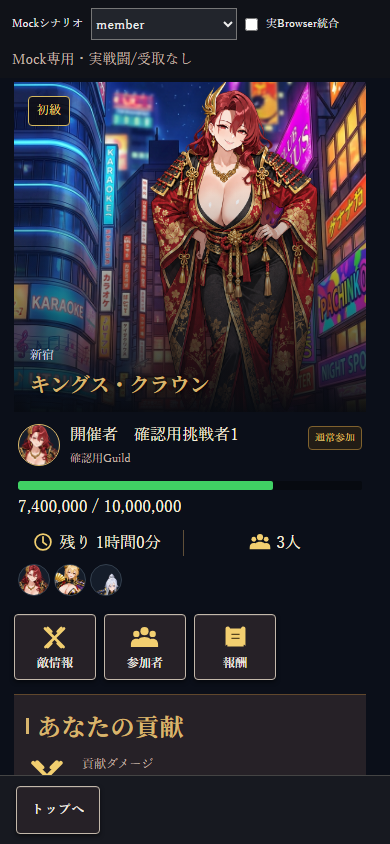
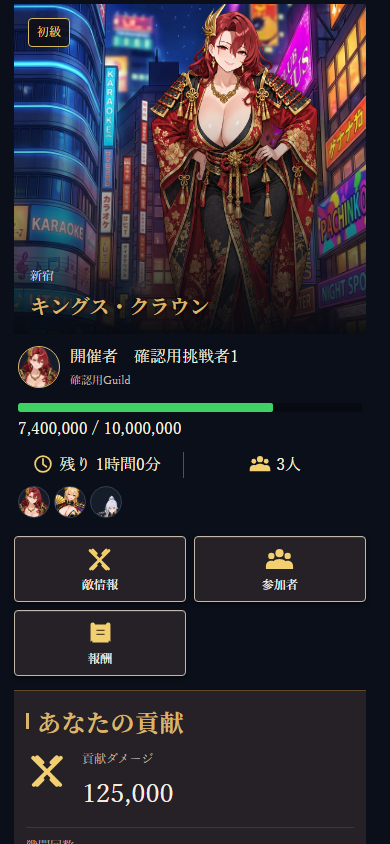
fix(game04): align raid UI with visual correction instructions

diff --git a/src/app/components/raid/RaidRoomDetail.css b/src/app/components/raid/RaidRoomDetail.css
@@ -56,4 +56,4 @@
 .raid-detail__role > span { display: block; margin-bottom: 2px; font-size: 9px; color: var(--ui-text-secondary); }
 
 /* Approved raid mock: live detail composition. */
-.raid-detail{padding:0 0 24px;color:#f8f0df}.raid-detail__hero{height:330px;border-radius:0;border:0}.raid-detail__enemy{width:92%;height:126%;right:-8%;top:-2%}.raid-detail__hero-caption{left:16px;bottom:14px}.raid-detail__hero-caption h2{color:#efd584;font:700 28px Georgia,serif}.raid-detail__difficulty{top:14px;left:14px;border-color:#d6b95f;color:#f4d977;background:rgba(15,14,20,.86)}.raid-detail__owner{display:flex;align-items:center;gap:10px;padding:10px 4px 7px;border-bottom:0}.raid-detail__owner .raid-detail__portrait{width:42px;height:42px;flex-basis:42px;border-color:#dfbb6b}.raid-detail__identity strong{font:16px Georgia,serif}.raid-detail__identity>span{font-size:11px}.raid-detail__role{border-color:#80622e;color:#e8cb78;background:#221d16}.raid-detail__battle{padding:6px 4px 10px}.raid-detail__hp-heading{display:none}.raid-detail__hp{height:9px;margin:0 0 4px;background:#15161b}.raid-detail__hp::-webkit-progress-value{background:#40d164}.raid-detail__hp-value{text-align:left;color:#f8f0df;font:16px Georgia,serif}.raid-detail__battle-facts{grid-template-columns:1fr 1fr;border:0;margin-top:10px}.raid-detail__battle-facts>div{display:flex;align-items:center;justify-content:center;gap:8px;border-right:1px solid #604f39}.raid-detail__battle-facts>div:last-child{border-right:0}.raid-detail__battle-facts strong{font:16px Georgia,serif}.raid-detail__battle-facts span{font-size:0}.raid-detail__battle-facts>div:first-child strong::before{content:'◷ ';color:#f2cf70}.raid-detail__battle-facts>div:last-child strong::before{content:'♟ ';color:#f2cf70}.raid-detail__entrances{gap:8px;margin-top:8px}.raid-detail__entrances .outlaw-button{min-height:62px;border-color:#d6c7af;background:#17171d}.raid-detail__entrances img{width:29px;height:29px}.raid-detail__contribution{margin-top:14px;border:0;border-top:1px solid #60472c;border-radius:0;background:linear-gradient(135deg,#1a1b21,#12131a)}.raid-detail__contribution>.outlaw-card-inner{padding:14px 12px}.raid-detail .outlaw-section-header{margin-bottom:12px}.raid-detail .section-header-title{font:700 23px Georgia,serif;color:#e9ca6c}.raid-detail__contribution-values{grid-template-columns:1fr}.raid-detail__contribution-values>div:first-child{padding-left:56px;position:relative}.raid-detail__contribution-values>div:first-child::before{content:'⚔';position:absolute;left:0;top:0;color:#f2cf70;font-size:40px}.raid-detail__contribution-values span{font-size:12px}.raid-detail__contribution-values strong{font:26px Georgia,serif}.raid-detail__contribution-values>div:last-child{display:flex;justify-content:space-between;border-top:1px solid #393840;padding-top:9px}.raid-detail__action{margin-top:12px}.raid-detail__action .outlaw-button{min-height:58px;border-color:#ed9a6a;background:linear-gradient(#a52d40,#7e2031);font-size:21px}.raid-detail__action .outlaw-button::after{content:'　⚡ 消費行動力 5';font-size:12px;margin-left:auto}.raid-detail__faces{margin-top:8px}
+.raid-detail{padding:0 0 24px;color:#f8f0df}.raid-detail__hero{height:330px;border-radius:0;border:0}.raid-detail__enemy{width:92%;height:126%;right:-8%;top:-2%}.raid-detail__hero-caption{left:16px;bottom:14px}.raid-detail__hero-caption h2{color:#efd584;font:700 28px Georgia,serif}.raid-detail__difficulty{top:14px;left:14px;border-color:#d6b95f;color:#f4d977;background:rgba(15,14,20,.86)}.raid-detail__owner{display:flex;align-items:center;gap:10px;padding:10px 4px 7px;border-bottom:0}.raid-detail__owner .raid-detail__portrait{width:42px;height:42px;flex-basis:42px;border-color:#dfbb6b}.raid-detail__identity strong{font:16px Georgia,serif}.raid-detail__identity>span{font-size:11px}.raid-detail__battle{padding:6px 4px 10px}.raid-detail__hp-heading{display:none}.raid-detail__hp{height:9px;margin:0 0 4px;background:#15161b}.raid-detail__hp::-webkit-progress-value{background:#40d164}.raid-detail__hp-value{text-align:left;color:#f8f0df;font:16px Georgia,serif}.raid-detail__battle-facts{grid-template-columns:1fr 1fr;border:0;margin-top:10px}.raid-detail__battle-facts>div{display:flex;align-items:center;justify-content:center;gap:8px;border-right:1px solid #604f39}.raid-detail__battle-facts>div:last-child{border-right:0}.raid-detail__battle-facts strong{font:16px Georgia,serif}.raid-detail__battle-facts span{font-size:0}.raid-detail__entrances{grid-template-columns:repeat(2,minmax(0,1fr));gap:8px;margin-top:8px}.raid-detail__entrances .outlaw-button{min-height:62px;border-color:#d6c7af;background:#17171d}.raid-detail__entrances img{width:29px;height:29px}.raid-detail__contribution{margin-top:14px;border:0;border-top:1px solid #60472c;border-radius:0;background:linear-gradient(135deg,#1a1b21,#12131a)}.raid-detail__contribution>.outlaw-card-inner{padding:14px 12px}.raid-detail .outlaw-section-header{margin-bottom:12px}.raid-detail .section-header-title{font:700 23px Georgia,serif;color:#e9ca6c}.raid-detail__contribution-values{grid-template-columns:1fr}.raid-detail__contribution-values>div:first-child{padding-left:56px;position:relative}.raid-detail__contribution-values span{font-size:12px}.raid-detail__contribution-values strong{font:26px Georgia,serif}.raid-detail__contribution-values>div:last-child{display:flex;justify-content:space-between;border-top:1px solid #393840;padding-top:9px}.raid-detail__action{margin-top:12px}.raid-detail__action .outlaw-button{min-height:58px;border-color:#ed9a6a;background:linear-gradient(#a52d40,#7e2031);font-size:21px}.raid-detail__faces{margin-top:8px}

diff --git a/src/app/qa/raid-approved/ApprovedRaidPreview.tsx b/src/app/qa/raid-approved/ApprovedRaidPreview.tsx
@@ -1,6 +1,6 @@
 'use client';
 
-import { useMemo, useState } from 'react';
+import { useState } from 'react';
 import { RAID_TOP_ENEMIES } from '@/domain/raidTopAssets';
 import './ApprovedRaidPreview.css';
 
@@ -42,10 +42,10 @@ function ListCard({ enemy, encounter = false }: { enemy: typeof RAID_TOP_ENEMIES
   return <article className="raid-approved__list-card"><div className="raid-approved__list-art"><img src={enemy.backgroundUrl} alt="" /><img src={enemy.leaderImageUrl} alt="" /></div><div className="raid-approved__list-copy"><div className="raid-approved__badges"><span>{encounter ? 'エンカウント' : '領土侵攻'}</span><span>参加中</span></div><h3>{enemy.bossName} <small>Lv.1</small></h3><p className="raid-approved__attribute">{icon('medal')} {encounter ? '火属性・強敵' : '闇属性・高難度'}</p><Owner name={encounter ? 'さくら' : 'あかね'} /><Hp /></div><div className="raid-approved__card-bottom"><Meta /><button type="button">続きへ ›</button></div></article>;
 }
 
-function Listing({ onDetail }: { onDetail: () => void }) {
+function Listing() {
   const [tab, setTab] = useState('すべて');
   const [first, second] = RAID_TOP_ENEMIES;
-  return <section className="raid-approved__screen"><div className="raid-approved__screen-head"><h1>レイド</h1><button type="button">更新</button></div><div className="raid-approved__tabs">{['すべて', 'エンカウント', '領土侵攻'].map(value => <button key={value} className={tab === value ? 'is-active' : ''} onClick={() => setTab(value)} type="button">{value}</button>)}</div><p className="raid-approved__sort">残り時間が短い順</p><div className="raid-approved__list"><ListCard enemy={first} encounter={tab !== '領土侵攻'} /><ListCard enemy={second} /></div><button className="raid-approved__ended" type="button">{icon('chest')}終了したレイド・未受取報酬 <b>›</b></button><button className="raid-approved__detail-link" type="button" onClick={onDetail}>承認モックの詳細を開く</button></section>;
+  return <section className="raid-approved__screen"><div className="raid-approved__screen-head"><h1>レイド</h1><button type="button">更新</button></div><div className="raid-approved__tabs">{['すべて', 'エンカウント', '領土侵攻'].map(value => <button key={value} className={tab === value ? 'is-active' : ''} onClick={() => setTab(value)} type="button">{value}</button>)}</div><p className="raid-approved__sort">残り時間が短い順</p><div className="raid-approved__list"><ListCard enemy={first} encounter={tab !== '領土侵攻'} /><ListCard enemy={second} /></div><button className="raid-approved__ended" type="button">{icon('chest')}終了したレイド・未受取報酬 <b>›</b></button></section>;
 }
 
 function Detail({ lower = false }: { lower?: boolean }) {
@@ -54,7 +54,6 @@ function Detail({ lower = false }: { lower?: boolean }) {
 }
 
 export default function ApprovedRaidPreview() {
-  const [screen, setScreen] = useState<'all' | 'listing' | 'detail'>('all');
-  const screens = useMemo(() => screen === 'all' ? ['listing', 'detail', 'lower'] : [screen], [screen]);
-  return <main className="raid-approved"><div className="raid-approved__board"><div className="raid-approved__panels">{screens.map((kind, index) => <div className="raid-approved__panel" key={kind}><h2 className="raid-approved__panel-title">{index === 0 && kind === 'listing' ? '01　レイド一覧' : kind === 'detail' ? '02　レイド詳細' : '03　詳細・下部'}</h2><ResourceHeader />{kind === 'listing' ? <Listing onDetail={() => setScreen('detail')} /> : <Detail lower={kind === 'lower'} />}<Footer /></div>)}</div><div className="raid-approved__controls"><button type="button" onClick={() => setScreen('all')}>3面比較</button><button type="button" onClick={() => setScreen('listing')}>一覧Preview</button><button type="button" onClick={() => setScreen('detail')}>詳細Preview</button></div><p className="raid-approved__note">ビジュアル比較用・開催者名は仮名／実装は正式開催者データへ接続</p></div></main>;
+  const screens = ['listing', 'detail', 'lower'] as const;
+  return <main className="raid-approved"><div className="raid-approved__board"><div className="raid-approved__panels">{screens.map((kind, index) => <div className="raid-approved__panel" key={kind}><h2 className="raid-approved__panel-title">{index === 0 && kind === 'listing' ? '01　レイド一覧' : kind === 'detail' ? '02　レイド詳細' : '03　詳細・下部'}</h2><ResourceHeader />{kind === 'listing' ? <Listing /> : <Detail lower={kind === 'lower'} />}<Footer /></div>)}</div></div></main>;
 }

diff --git a/src/app/components/raid/RaidRoomDetail.tsx b/src/app/components/raid/RaidRoomDetail.tsx
@@ -53,7 +53,6 @@ export default function RaidRoomDetail({ room, briefing, display, participants, 
   const owner = room.owner.status === "available" ? room.owner.value : null;
   const role = details?.membership ?? (owner?.userId === currentUserId && currentUserId ? "owner" : brief?.membershipStatus === "joined" ? "joined_unknown" : brief?.membershipStatus === "not_joined" ? "not_joined" : "unknown");
   const isJoined = role === "owner" || role === "member" || role === "rescue" || role === "joined_unknown";
-  const roleLabel = { owner: "挑戦者", member: "通常参加", rescue: "救援参加", not_joined: "未参加", joined_unknown: "参加中・参加経路未確認", unknown: "参加状態未確認" }[role];
   const memberList = participants.status === "success" ? participants.data?.filter(entry => entry.roomId === room.roomId) ?? [] : [];
   const faces = memberList.slice(0, 5);
   const me = currentUserId ? memberList.find(entry => entry.player.userId === currentUserId) : undefined;
@@ -97,7 +96,6 @@ export default function RaidRoomDetail({ room, briefing, display, participants, 
     <section className="raid-detail__owner" aria-label="開催者">
       <Portrait url={resolve(ownerUrl)} name={owner?.name ?? "開催者未確認"} />
       <div className="raid-detail__identity"><strong>開催者　{owner?.name ?? "未確認"}</strong><span>{guild}</span></div>
-      <span className="raid-detail__role">{roleLabel}</span>
     </section>
     {(briefing.status === "error" || display.status === "error") && <p className="raid-detail__notice" role="alert">{briefing.status === "error" ? "敵・参加条件" : "所属・参加状態"}を取得できませんでした。画面を更新してください。</p>}
     <section className="raid-detail__battle" aria-label="戦況">
@@ -108,7 +106,6 @@ export default function RaidRoomDetail({ room, briefing, display, participants, 
       {faces.length > 0 && <div className="raid-detail__faces" aria-label="登録参加者のリーダー">{faceImages.map(person => <Portrait key={person.id} url={resolve(person.url)} name={person.name} />)}</div>}
     </section>
     <nav className="raid-detail__entrances" aria-label="レイドの詳細情報">{ENTRANCES.map(entry => <OutlawButton key={entry.id} loadingLabel="" disabled={busy || (entry.id === "participants" && !isJoined)} aria-label={entry.label === "参加者" ? "参加者一覧" : entry.label} onClick={entry.id === "participants" ? onParticipants : entry.id === "rewards" ? onRewards : onEnemyInfo}><img src={resolve(entry.icon)} alt="" /><span>{entry.label}</span></OutlawButton>)}{rescue && <OutlawButton loadingLabel="" disabled={busy} aria-label="救援" onClick={() => setRescueOpen(true)}><img src={resolve("/ui/raid/handshake.svg")} alt="" /><span>救援</span></OutlawButton>}</nav>
-    {!isJoined && <p className="raid-detail__hint">参加者の詳細は参戦後に確認できます。</p>}
     {isJoined && <OutlawCard className="raid-detail__contribution"><SectionHeader title="あなたの貢献" />{participants.status === "loading" ? <Spinner /> : <><div className="raid-detail__contribution-values"><div><span>貢献ダメージ</span><strong>{me?.appliedDamage.status === "available" ? number(me.appliedDamage.value) : "未確認"}</strong></div><div><span>戦闘回数</span><strong>{me?.finalizedBattles.status === "available" ? `${number(me.finalizedBattles.value)}戦` : "未確認"}</strong></div></div>{participants.status === "error" && <p className="raid-detail__notice" role="alert">貢献情報を取得できませんでした。</p>}</>}</OutlawCard>}
     <QuestRaidBonus roomId={room.roomId} />
     <div className="raid-detail__action">{action}</div>

diff --git a/src/app/components/raid/RaidTopApproved.tsx b/src/app/components/raid/RaidTopApproved.tsx
@@ -35,7 +35,7 @@ function Hp({ entry, now, compact = false }: { entry: RaidTopEntry; now: number 
 
 function Card({ entry, now, resolve, onOpenRoom, disabled, rescue }: { entry: RaidTopEntry; now: number | null; resolve: Props['resolve']; onOpenRoom: Props['onOpenRoom']; disabled?: boolean; rescue?: boolean }) {
   const enemy = enemyOf(entry);
-  return <article className="raid-approved-ui__card"><div className="raid-approved-ui__card-art">{enemy && <><img src={resolve(enemy.backgroundUrl)} alt="" /><img src={resolve(enemy.leaderImageUrl)} alt="" /></>}</div><div className="raid-approved-ui__card-copy"><div className="raid-approved-ui__badges"><span>{rescue ? '救援' : getRaidDifficultyLabel(entry.room.difficultyId)}</span><span>{rescue ? '参加可能' : '参加中'}</span></div><h3>{enemy?.bossName ?? '敵情報未確認'} <small>Lv.1</small></h3><p className="raid-approved-ui__attribute">{icon('medal')} {rescue ? '救援要請' : 'レイド進行中'}</p><Owner entry={entry} resolve={resolve}/><Hp entry={entry} now={now} compact={rescue}/><OutlawButton loadingLabel="" variant="primary" disabled={disabled} onClick={() => onOpenRoom(entry.room.roomId, entry.rescue.status === 'available' ? entry.rescue.value.rescueId : undefined)}>{rescue ? '救援に向かう' : '続きへ'} ›</OutlawButton></div></article>;
+  return <article className="raid-approved-ui__card"><div className="raid-approved-ui__card-art">{enemy && <><img src={resolve(enemy.backgroundUrl)} alt="" /><img src={resolve(enemy.leaderImageUrl)} alt="" /></>}</div><div className="raid-approved-ui__card-copy"><div className="raid-approved-ui__badges"><span>{rescue ? '救援' : getRaidDifficultyLabel(entry.room.difficultyId)}</span><span>{rescue ? '参加可能' : '参加中'}</span></div><h3>{enemy?.bossName ?? '敵情報未確認'} <small>Lv.1</small></h3><Owner entry={entry} resolve={resolve}/><Hp entry={entry} now={now} compact={rescue}/><OutlawButton loadingLabel="" variant="primary" disabled={disabled} onClick={() => onOpenRoom(entry.room.roomId, entry.rescue.status === 'available' ? entry.rescue.value.rescueId : undefined)}>{rescue ? '救援に向かう' : '続きへ'} ›</OutlawButton></div></article>;
 }
 
 export default function RaidTopApproved({ participating, rescues, now, resolve, onOpenRoom, onRefresh, disabled }: Props) {

diff --git a/src/app/qa/raid-detail/RaidDetailHarness.css b/src/app/qa/raid-detail/RaidDetailHarness.css
@@ -1,6 +1,6 @@
 .raid-detail-qa { width: 100%; max-width: 430px; height: 100dvh; margin: 0 auto; display: flex; flex-direction: column; overflow: hidden; background: #101218; color: #eee; }
-.raid-detail-qa-tools { flex-shrink: 0; display: flex; flex-wrap: wrap; align-items: center; gap: 8px; padding: 8px 12px; font-size: 11px; }
+.raid-detail-qa-tools { display: none; }
 .raid-detail-qa-tools label { display: flex; align-items: center; gap: 8px; }
 .raid-detail-qa-tools select { background: #22252c; color: #eee; min-height: 32px; max-width: 160px; }
 .raid-detail-qa-content { flex: 1; min-height: 0; overflow: hidden; }
-.raid-detail-qa-footer { flex-shrink: 0; padding: 10px 16px calc(10px + env(safe-area-inset-bottom)); border-top: 1px solid #444; background: #171920; }
+.raid-detail-qa-footer { display: none; }

diff --git a/src/app/qa/raid-top/RaidTopHarness.css b/src/app/qa/raid-top/RaidTopHarness.css
@@ -6,7 +6,7 @@
 .raid-top-qa-footer { position: fixed; bottom: 0; width: 100%; max-width: 430px; padding: 10px 16px calc(10px + env(safe-area-inset-bottom)); background: #171920; border-top: 1px solid #555; z-index: 20; box-sizing: border-box; }
 .raid-top-qa { height: 100dvh; overflow-y: auto; box-sizing: border-box; }
 .raid-top-qa { display: flex; flex-direction: column; height: 100dvh; overflow: hidden; padding-bottom: 0; }
-.raid-top-qa-tools { flex-shrink: 0; }
+.raid-top-qa-tools, .raid-top-qa-footer { display: none; }
 .raid-top-qa-product { flex: 1; min-height: 0; overflow: hidden; }
 .raid-top-qa-output { display: none; }
 .raid-top-qa-footer { position: static; flex-shrink: 0; }

diff --git a/docs/design/raid/2026-09-23/IMPLEMENTATION_VERIFICATION.md b/docs/design/raid/2026-09-23/IMPLEMENTATION_VERIFICATION.md
@@ -19,7 +19,10 @@
 - 本体トップ：`comparison/raid-body-top-390.png`
 - 本体詳細：`comparison/raid-body-detail-390.png`
 - 確認ルート：`/qa/raid-top`、`/qa/raid-detail`、`/qa/raid-approved`
-- Mock環境でHTTP 200、一覧3フィルタ、続きへ、詳細4導線、挑むCTA、390px表示を確認。
+- Mock環境でHTTP 200、一覧3フィルタ、続きへ、詳細2列アクション、挑むCTA、390px表示を確認。
+- QA専用ツールバー、Mockシナリオ説明、戦闘帰還Mock、比較用の実装注記は本体表示から除去した。
+- 詳細アクションは2列×2行に修正し、時計・人数・挑戦・行動力のUnicode代用を専用SVGへ統一した。
+- 本体の正式canonical画像は承認モックの検討画像とは異なるため、画像差分を隠さず正式素材由来の差分として扱う。GAME03素材への差替えは行っていない。
 
 ## 素材
 
@@ -36,6 +39,15 @@
 9. `medal.svg` — 報酬資格メダリオン
 
 モックとの比較では、絵文字・文字だけの代替・別用途素材は使用していない。ボス／背景／開催者顔は正式データ接続を使用し、9種のみ未承認制作物として明示する。
+
+## 残件・供給待ち
+
+| 区分 | 残件 | 完了扱い |
+|---|---|---|
+| 機能接続 | 一覧の「終了したレイド・未受取報酬」カードは、現在の `RaidTopProps` に報酬Dialogを開くcallbackがなく、表示のみ。既存の報酬受取機能は詳細の報酬導線から接続済み | 未完了。親側でcallback追加後に接続する |
+| 正式データ | 一覧の属性表示は `RaidTopData` 契約に正式属性値がないため、架空の属性文を追加せず省略 | 未完了。正式属性データの供給待ち |
+| 素材供給 | `public/ui/raid/` のSVG9種は比較用の未承認制作物。正式共通アイコン供給後に差替え | 未完了。正式採用済みとして扱わない |
+| QA検証 | Mock RPCに `get_quest_raid_bonus_v1` の未処理呼出しが残る。PGRST202相当では画面表示を阻害しないが、console clean受入にはQA stubまたは正式RPCが必要 | 未完了。供給／接続待ち |
 
 ## 検証コマンド
 

diff --git a/docs/design/raid/2026-09-23/ASSET_REQUIREMENTS.md b/docs/design/raid/2026-09-23/ASSET_REQUIREMENTS.md
@@ -23,3 +23,9 @@
 
 比較画像：`comparison/raid-approved-preview-1536.png`、`comparison/raid-approved-preview-390.png`。固定Preview：`/qa/raid-approved`（Mock環境のみ）。
 不足はユーザー側の制作へ渡せる具体的な依頼にする。無理な代用・無断生成・装飾省略はしない。
+
+## Visual correction後の制作依頼
+
+- 時計、人数、刀、巻物、握手、宝箱、鎧、勝利、メダリオンの正式共通SVGを、現在の9種と同一用途・表示寸法で供給する。
+- 金色線幅、透過余白、未達／達成状態、押下／無効状態を承認モックに合わせて納品し、`public/ui/raid/*.svg` の仮制作物と差替える。
+- 供給完了までは本実装を完成扱いにせず、今回の9種を正式採用済みと報告しない。
